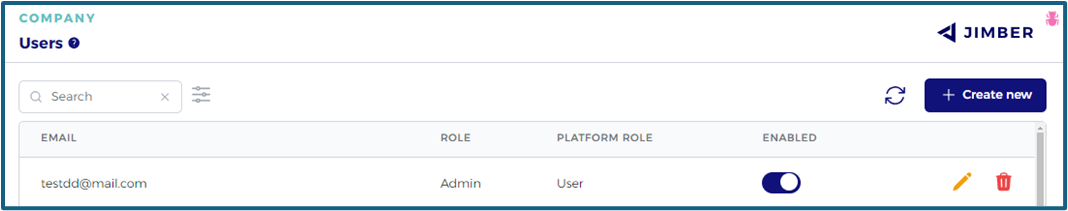
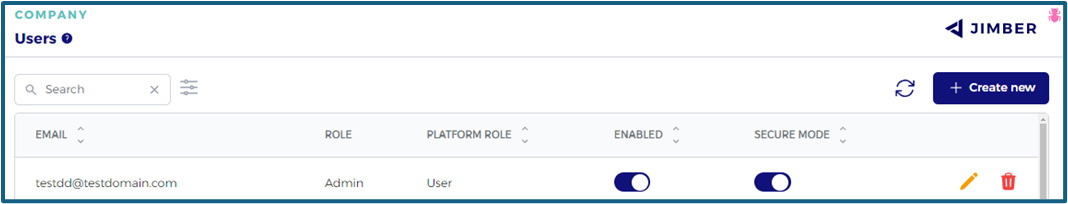
22th of November 2024

diff --git a/index.html b/index.html
@@ -11,7 +11,7 @@
   href="//cdn.jsdelivr.net/npm/docsify@4/themes/vue.css"
 />
   <link rel="stylesheet" href="style.css">
-  <title>Jimber Network Isolation - Documentation</title>
+  <title>Jimber SASE Platform - Documentation</title>
   <style>
    .sidebar-logo {
       text-align: center;

diff --git a/advanced/bestpractices/bestpractices.md b/advanced/bestpractices/bestpractices.md
@@ -1,18 +1,18 @@
-# Network Isolation - Best practices
+# SASE Platform - Best practices
 ## Intro
-Welcome to the best practices guide for Jimber Network Isolation. In this document, we'll dive into how to get the most out of our product by focusing on key areas: setting up groups, choosing the right IP ranges, and managing user permissions. It's especially important to get familiar with these features now, as we're planning to phase out multiple IP ranges in the future. This guide aims to give you all the tools and knowledge needed to ensure your network is not only effective but also secure and future-ready.
+Welcome to the best practices guide for `Jimber SASE Platform`. In this document, we'll dive into how to get the most out of our product by focusing on key areas: setting up groups, choosing the right IP ranges, and managing user permissions. It's especially important to get familiar with these features now, as we're planning to phase out multiple IP ranges in the future. This guide aims to give you all the tools and knowledge needed to ensure your network is not only effective but also secure and future-ready.
 
 ## Applying rules
-In configuring rules within 'Network Isolation,' focusing on functionality rather than specific user groups is key. This approach emphasizes the purpose or action of the rule, making your network's configuration more intuitive and manageable. For instance, rather than naming a group based on the department or personnel, like 'Sales,' name it in a way that reflects its function. Consider names like 'AllowFileserver' to grant access to a file server.
+In configuring rules within `Jimber SASE Platform`, focusing on functionality rather than specific user groups is key. This approach emphasizes the purpose or action of the rule, making your network's configuration more intuitive and manageable. For instance, rather than naming a group based on the department or personnel, like 'Sales,' name it in a way that reflects its function. Consider names like 'AllowFileserver' to grant access to a file server.
 
 To illustrate this further, other examples of function-focused group names could include 'ForceWanGateway,' which could be used for directing all traffic through a specific WAN gateway, or 'BlockDangerousWebsites' for a group aimed at enhancing network security by restricting access to potentially harmful online sites. Another example is 'AllowRemoteServerLogin,' a group designated for users who need remote access to servers.
 
 By adopting this functional naming convention, you create a rule structure that is straightforward and self-explanatory. This method simplifies the administration of the network, allowing for quick identification, modification, and understanding of each group's role and permissions. It ensures that as your network grows or changes, you can easily adjust access and permissions without having to overhaul the group structure."
 
 ## Azure Groups
-When integrating 'Network Isolation' with Azure Entra ID, it's important to note how group synchronization works. For instance, if you have a group named 'AllowFileserver' in Azure and the 'Sales' group is a member of it, all members of 'Sales' will be automatically synced to 'AllowFileserver' in 'Network Isolation.' 
+When integrating `Jimber SASE Platform` with Azure Entra ID, it's important to note how group synchronization works. For instance, if you have a group named 'AllowFileserver' in Azure and the 'Sales' group is a member of it, all members of 'Sales' will be automatically synced to 'AllowFileserver' in `Jimber SASE Platform`. 
 
-This ensures that your network permissions reflect your organizational structure by leveraging your existing nested groups in Azure. Such integration streamlines access management, as changes in Azure group memberships are automatically updated in 'Network Isolation,' maintaining consistency and efficiency.
+This ensures that your network permissions reflect your organizational structure by leveraging your existing nested groups in Azure. Such integration streamlines access management, as changes in Azure group memberships are automatically updated in `Jimber SASE Platform`, maintaining consistency and efficiency.
 
 
 ![entraid_example.png](/entraid_example.png)

diff --git a/devices/servers/servers.md b/devices/servers/servers.md
@@ -12,10 +12,6 @@ prominently located at the upper right corner of the interface.
 > [!INFO] 
 > Hostname is mandatory and must be a lowercase string.
 
-- Hostname
-- Primary group
-
-> Hostname must be a lowercase string.
 
 ## Server installation
 
@@ -31,6 +27,9 @@ prominently located at the upper right corner of the interface.
 > First create your server (see above).
 
 Download the latest version for the 'Windows Server' from https://signal.jimber.io/downloads (no need to login).
+
+> [!INFO]
+> To download another specific version, you can use this [link](https://signal.jimber.io/clients).
 
 Once downloaded, decompress the file and initiate the .msi installation file by double-clicking it.
 
@@ -88,6 +87,9 @@ For any necessary troubleshooting, consult the log file at this location:
 
 Download the latest version for the 'Linux Server' from https://signal.jimber.io/downloads (no need to login).
 
+> [!INFO]
+> To download another specific version, you can use this [link](https://signal.jimber.io/clients).
+
 ```bash
 sudo apt update
 sudo apt install wireguard
@@ -96,15 +98,16 @@ sudo dpkg -i linux-server-latest.deb
 ```
 
 Upon completion of the installation, a new `settings.json` file will be automatically created in the `/etc/jimber/`directory.
+<!-- This file must be completed with the token you were provided upon creating the server within the SASE Platform interface. This can be established with the following command:
+
+```bash
+sudo jimberfw -config
+```
+![token_linux_server.png](/token_linux_server.png ':size=300') -->
+
 Open this file using the text editor of your choice. Within this file, you'll notice an empty token along with newly created public and private keys.
 
-In this file, enter the token you were provided upon creating the server within the Network Isolation interface.
-
-The required token can be retrieved from the 'Servers' tab within the Signal server interface. Simply select and edit an existing server to find it.
-
-
-![edit_server.png](/edit_server.png ':size=500')
-
+In this file, enter the token you were provided upon creating the server within the SASE Platform interface.
 
 ```json
 {
@@ -117,8 +120,15 @@ The required token can be retrieved from the 'Servers' tab within the Signal ser
 > **Attention**! Don't forget the comma at the end of lines and the quotation marks!
 Ensure to save the changes made to the file.
 
-> **Attention**! Don't forget the comma at the end of lines and the quotation marks!
-> Ensure to save the changes made to the file.
+
+
+
+The required token can be retrieved from the 'Servers' tab within the Signal server interface. Simply select and edit an existing server to find it.
+
+
+![edit_server.png](/edit_server.png ':size=500')
+
+
 
 Restart the service by executing the following command:
 
@@ -138,7 +148,7 @@ cat /var/log/jimber/jimbernetworkisolation.log
 
 #### **Synology**
 
-[Click here to see how to setup your synology nas](devices/synology/synology.md)
+[Click here to see how to setup your synology nas](/./devices/synology/synology.md)
 
 #### **Raspberry pi**
 
@@ -147,6 +157,9 @@ Requirements:
 
 Follow the Linux installation but use the following deb file instead: 
 - https://signal.jimber.io/clients/rpi-latest.deb
+
+> [!INFO]
+> To download another specific version, you can use this [link](https://signal.jimber.io/clients).
 
 All other configuration is exactly the same.
 

diff --git a/devices/niacs/niacs.md b/devices/niacs/niacs.md
@@ -1,6 +1,6 @@
 # Network Isolation - NIAC
 
-Network Isolation Access Client (NIAC) is a specialized hardware device engineered to enable secure network connections. It can be integrated with a broad range of devices, including printers, IP cameras, hard drives, and industrial machinery. By serving as a distinct gateway for these devices, NIACs enhance accessibility, ensuring that all data in transit remains encrypted for utmost security.
+Network Isolation Access Client (NIAC) is a specialized hardware device engineered to enable secure network connections. It can be integrated with a broad range of devices, including printers, IP cameras, hard drives and industrial machinery. By serving as a distinct gateway for these devices, NIACs enhance accessibility, ensuring that all data in transit remains encrypted for utmost security.
 
 
 ![niacs.png](/niacfront.png ':size=300')
@@ -9,13 +9,12 @@ Network Isolation Access Client (NIAC) is a specialized hardware device engineer
 ![niacs.png](/niacback.png ':size=300')
 
 
-At the NIAC, there are 4 ports available: one WAN port for internet connection, two LAN ports, and one USB port. The USB port is currently not supported, so network devices can be connected.
+At the NIAC, there are 4 ports available: one WAN port for internet connection, two LAN ports, and one USB port. The USB port is currently not supported, so only network devices can be connected.
 A LAN port is typically used to connect local devices within a network. Typical devices that can be connected to a LAN port include:
 - Computers (desktops, laptops)
-- Smartphones
 - Smart TVs
 - Network storage devices (NAS)
-- Network printer
+- Network printers
 - ...
 
 Once a device is connected, you can see the assigned IP address of the device in the overview of the NIACs. In this overview, you can also remove a device and activate or deactivate secure mode. The IP address is assigned via DHCP. 
@@ -56,7 +55,7 @@ You can choose a hostname and it must be a lowercase string.
 > A device that is connected to a NIAC will not be able to reach the internet unless the NIAC is member of a group of which the Wan Gateway is enabled. For instance: if a NIAC is member of the group WanGateway and in Group Details is Wan Configuration enabled for that group, the connected device will be able to reach the internet. -->
 
 > [!WARNING]
-> A device that is connected to a NIAC will not be able to reach the internet unless the NIAC is member of a group of which the Wan Gateway is enabled. For instance: if a NIAC is member of the group WanGateway and in Group Configuration is Wan Gateway enabled for that group, the connected device will be able to reach the internet. -->
+> A device that is connected to a NIAC will not be able to reach the internet unless the NIAC is member of a group of which the Wan Gateway is enabled. For instance: if a NIAC is member of the group WanGateway and in Group Configuration is Wan Gateway enabled for that group, the connected device will be able to reach the internet.
 
 ![group_config.png](/group_config.png ':size=800')
 

diff --git a/devices/userdevices/userdevices.md b/devices/userdevices/userdevices.md
@@ -28,7 +28,7 @@ Open the page signal.jimber.io and download the client that matches your operati
 As mentioned, download the latest 'Windows Client' from the 'Download' section in your company's settings at signal.jimber.io, or use the direct link to access the most recent version for Windows : [latest windows version](https://signal.jimber.io/clients/windows-desktop-latest.msi)
 
 > [!INFO]
-> To download another specific version, you can use signal.jimber.io/clients.
+> To download another specific version, you can use this [link](https://signal.jimber.io/clients).
 
 
 Open the downloaded file to install the 'Windows Client'.
@@ -68,7 +68,7 @@ If you don't have a login yet, please reach out to your network administrator to
 As mentioned, download the latest 'Mac Client' from the 'Download' section in your company's settings at signal.jimber.io, or use the direct link to access the most recent version for Mac : [latest mac version](https://signal.jimber.io/clients/mac-x64-latest.dmg)"
 
 > [!INFO]
-> To download another specific version, you can use signal.jimber.io/clients.
+> To download another specific version, you can use this [link](https://signal.jimber.io/clients).
 
 Install the Network Isolation Client by dragging the 'JimberNetworkIsolation' icon into your 'Applications' folder.
 
@@ -108,7 +108,7 @@ If you're yet to have a login, please reach out to your network administrator to
 Download the latest 'Linux Client' from the 'Download' section in your company's settings at signal.jimber.io, or use the direct link to access the most recent version for Linux : [latest Linux version](https://signal.jimber.io/clients/linux-desktop-latest.deb)
 
 > [!INFO]
-> To download another specific version, you can use signal.jimber.io/clients.
+> To download another specific version, you can use this [link](https://signal.jimber.io/clients).
 
 ![linux-open-deb.png](linux-open-deb.png ':size=300')
 

diff --git a/company/integrations/integrations.md b/company/integrations/integrations.md
@@ -10,7 +10,7 @@ To do so, enter the IP address DNS server and click on the apply button.
 ## Active Directory
 
 > [!INFO]
-> Comprehensive information can be found [here](/advanced/activedirectory/activedirectory.md).
+> Comprehensive information can be found [here](/./advanced/activedirectory/activedirectory.md).
 
 ![integration_ad.png](integration_ad.png ":size=800")
 
@@ -24,13 +24,15 @@ To do so, enter the IP address DNS server and click on the apply button.
 Synchronize your user data seamlessly from Azure Entra ID to the Network Isolation platform. This ensures that user information remains consistent across both platforms, providing ease of user management.
 
 > [!INFO]
-> Comprehensive information can be found [here](/advanced/entraid/entraid.md ":size=800").
+> Comprehensive information can be found [here](/./advanced/entraid/entraid.md).
 
 ![micro_entra_id.png](micro_entra_id.png ":size=800")
 
 ### **Steps to Enable Synchronization**:
 
-1. **Network Isolation Group**: The name of a group on Microsoft Entra ID where all groups that should be synchronized are a member of. All member groups of this group (and their users) will be synced to Network Isolation.
+<!-- 1. **Network Isolation Group**: The name of a group on Microsoft Entra ID where all groups that should be synchronized are a member of. All member groups of this group (and their users) will be synced to Network Isolation. -->
+
+1. **SASE Group**: The name of a group on Microsoft Entra ID where all groups that should be synchronized are a member of. All member groups of this group (and their users) will be synced to Network Isolation.
 
 2. **Tenant ID**: A unique identifier that represents your Microsoft Entra ID organization.
 

diff --git a/company/groups/groups.md b/company/groups/groups.md
@@ -54,6 +54,16 @@ Access the details of a specific group by selecting the corresponding strip with
 
 ![group_details.png](/group_details.png ':size=800')
 
+> [!NOTE]
+> Devices and users can only be added to the group from their own page:
+>
+>    - Comprehensive information on Group Traffic Rules, Attribute Services and Custom Ports Rules can be found in the SECURITY section of the sidebar.
+>    - Comprehensive information on Group Configuration can be found [here](/./rules/groupconfiguration/groupconfiguration.md)
+>    - Comprehensive information on how to add users can be found [here](/./company/users/users.md).
+>    - Comprehensive information on how to add devices can be found in the DEVICES section of the sidebar.
+
+
+
 
 ## Edit Group
 Groups can be edited by clicking on the yellow pencil icon next to their name ![icon_edit.png](/icon_edit.png ':size=35').
@@ -61,6 +71,18 @@ Groups can be edited by clicking on the yellow pencil icon next to their name ![
  You'll then be able to adjust the group name as needed:
 
 ![edit_group.png](/edit_group.png ':size=500')
+
+
+## Copy Group
+Groups can be copied by clicking on the copy icon next to their name ![icon_copy_group.png](/icon_copy_group.png ':size=35').
+
+ You'll then be able to copy the group:
+
+![copy_group.png](/copy_group.png ':size=500')
+
+> [!NOTE]
+> The name of the new group is then `copy of ...` and can be changed. 
+
 
 
 
@@ -76,3 +98,6 @@ Groups can be deleted by clicking on the red trash bin icon next to their name
 > [!WARNING]
 > The group will be removed without further notice.
 
+
+
+[devices]: /./devices

diff --git a/gettingstarted/index.md b/gettingstarted/index.md
@@ -1,10 +1,10 @@
-# Jimber Network Isolation Getting Started Guide
+# Jimber SASE Platfrom Getting Started Guide
 
 ## Introduction
 
-Network Isolation is a total network security solution that can help you protect your network from cyberthreats. By isolating your network, you can prevent unauthorized users from accessing sensitive data and applications.
+Jimber SASE Platform is a total network security solution that can help you protect your network from cyberthreats. By isolating your network, you can prevent unauthorized users from accessing sensitive data and applications.
 
-This guide will show you how to become a member of highly secure companies worldwide using `Jimber Network Isolation`
+This guide will show you how to become a member of highly secure companies worldwide using `Jimber SASE Platform`
 
 
 ## Steps
@@ -18,7 +18,7 @@ This guide will show you how to become a member of highly secure companies world
 5. [Create servers](./devices/servers/servers)
 6. [Create NIACs](./devices/niacs/niacs)
 7. [Create network controllers](./devices/networkcontrollers/networkcontrollers)
-8. [Configuring rules](./rules/rules)
+8. **Configuring rules** to be found in the SECURITY section of the sidebar.
 
 
 ## Contact

diff --git a/advanced/activedirectory/activedirectory.md b/advanced/activedirectory/activedirectory.md
@@ -116,7 +116,7 @@ Restart the domain controller now so that all services properly recognize the ne
 
 - #### Configuring dns forwarding for signal server
 
- Go to your Signal server page and head to settings. On the top, you will find a setting to configure the DNS forwarder. Clients that have DNS override enabled will be filtered through our DNS service, but domain-specific queries will still be resolved by the server you specify in this field. You should add the Network Isolation IP of the Domain Controller.
+ Go to your Signal Server page and head to Integrations. On the top, you will find a setting to configure the DNS forwarder. Clients that have DNS override enabled will be filtered through our DNS service, but domain-specific queries will still be resolved by the server you specify in this field. You should add the Network Isolation IP of the Domain Controller.
     
 ![Signal Server Forwarder](/ad-signal-server-forwarder.png)
 

diff --git a/company/customers/customers.md b/company/customers/customers.md
@@ -34,7 +34,8 @@ You get an overview of created assets:
 
 ![overview_customer.png](/overview_customer.png ':size=800')
 
-Just after creating the customer, no assets will obviously be visible yet.
+> [!NOTE]
+> Just after creating the customer, no assets will obviously be visible yet.
 
 ## Edit customer
 Customers can be edited by clicking on the yellow pencil icon next to their name ![pencil_2.png](/icon_edit.png ':size=35;35').
@@ -42,9 +43,9 @@ Customers can be edited by clicking on the yellow pencil icon next to their name
 ![edit_customer.png](/edit_customer.png ':size=500')
 
 > [!WARNING]
-> Changing the partner will remove all current security consultant roles
+> As mentioned, changing the partner will remove all current security consultant roles
 
-<!-- Changing the integrator will remove all current integrator roles. -->
+
 
 ## Delete customer
 

diff --git a/company/users/users.md b/company/users/users.md
@@ -22,7 +22,8 @@ prominently located at the upper right corner of the interface.
 
 ![create_user.png](create_user.png ':size=500x300')
 
-
+> [!WARNING]
+>  Username cannot be changed after creating a user! 
 
 ### User Roles and their permissions
 
@@ -101,7 +102,7 @@ prominently located at the upper right corner of the interface.
 
 ## User properties
 
- In the overview of the users, you can already see some properties: the role of the user in the company (Admin or User), the platform role that is generally 'User' and whether the user is enabled or not.
+ In the overview of the users, you can already see some properties: the role of the user in the company (Admin or User), the platform role that is generally 'User' and whether or not the user and Secure Mode are enabled.
 
  ![overview_users.png](/overview_users.png ':size=800x150')
 

diff --git a/devices/synology/synology.md b/devices/synology/synology.md
@@ -91,7 +91,11 @@ Enable SSH can be realized in 'Control Panel', 'Terminal & SNMP':
 
 #### Installing Network Isolation on your Synology
 
-Download the correct package for your Synology.
+Download the latest version for your Synology from [downloads](https://signal.jimber.io/downloads) (no need to login) or use the link in the sidebar.
+
+> [!INFO]
+> To download another specific version, you can use this [link](https://signal.jimber.io/clients).
+
 
 <!-- ![Find the correct synology package](head-to-synology-downloads.png ':size=300x')
 ![Find the correct synology package](head-to-synology-downloads2.png ':size:700x')
@@ -143,5 +147,5 @@ Ports
 - 445
 
 
-[Learn how to configure rules.](../../rules/rules.md)
+**Configuring rules** to be found in the SECURITY section of the sidebar.
 
